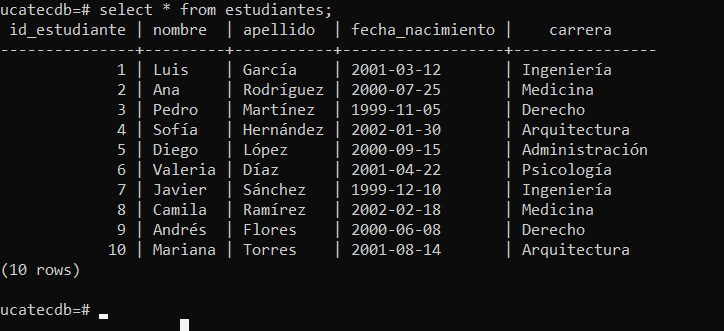
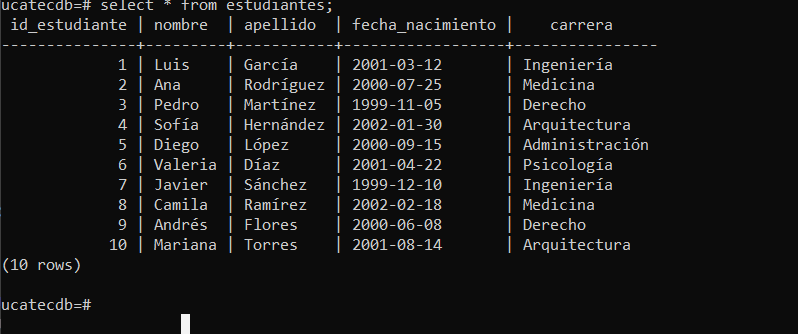
Examen

diff --git a/README.md b/README.md
@@ -1,2 +1,208 @@
-# UCatec
-Examen Primer Parcial
+# Configuración de PostgreSQL y MongoDB en Docker
+
+Este README documenta los pasos realizados para levantar contenedores de PostgreSQL y MongoDB usando Docker.
+
+---
+
+## 1. PostgreSQL
+
+### Pasos Realizados:
+
+#### ✅ Creación de un contenedor PostgreSQL
+
+Usamos el siguiente comando de Docker para crear y ejecutar el contenedor de PostgreSQL:
+
+```bash
+docker run -d \
+  --name postgres_container \
+  -e POSTGRES_USER=kevin \
+  -e POSTGRES_PASSWORD=secret \
+  -e POSTGRES_DB=ucatecdb \
+  -p 5434:5432 \
+  postgres
+```
+
+**Parámetros:**
+- `-d`: Ejecuta el contenedor en segundo plano.
+- `--name`: Asigna un nombre al contenedor (`postgres_container`).
+- `-e`: Define las variables de entorno como el usuario, la contraseña y la base de datos.
+- `-p`: Mapea el puerto 5432 del contenedor al puerto 5434 del host.
+
+#### 🔍 Verificación del contenedor PostgreSQL
+
+```bash
+docker ps
+```
+
+#### 🐚 Acceso al contenedor PostgreSQL
+
+```bash
+docker exec -it postgres_container bash
+```
+
+Luego, para acceder a la base de datos:
+
+```bash
+psql -U kevin --dbname=ucatecdb --password
+```
+
+#### 🧪 Consultas SQL dentro del contenedor
+
+```sql
+\d
+SELECT * FROM estudiantes;
+```
+### Imagenes del proceso
+![alt text](image.png)
+![alt text](image-1.png)
+![alt text](image-2.png)
+---
+
+## 2. MongoDB
+
+### Pasos Realizados:
+
+#### ✅ Creación de un contenedor MongoDB
+
+Usamos el siguiente comando de Docker para crear y ejecutar el contenedor de MongoDB:
+
+```bash
+docker run -d \
+  --name mongo_container \
+  -e MONGO_INITDB_ROOT_USERNAME=kevin \
+  -e MONGO_INITDB_ROOT_PASSWORD=secret \
+  -p 27017:27017 \
+  mongo
+```
+
+**Parámetros:**
+- `-d`: Ejecuta el contenedor en segundo plano.
+- `--name`: Asigna un nombre al contenedor (`mongo_container`).
+- `-e`: Define las variables de entorno como el usuario root y la contraseña.
+- `-p`: Mapea el puerto 27017 del contenedor al puerto 27017 del host.
+
+#### 🔍 Verificación del contenedor MongoDB
+
+```bash
+docker ps
+```
+
+#### 🐚 Acceso al contenedor MongoDB
+
+```bash
+docker exec -it mongo_container mongosh -u kevin -p secret
+```
+
+#### 📋 Consultas dentro del contenedor MongoDB
+
+```javascript
+use examenMongo
+
+db.estudiantes.insertMany([
+  { nombre: "Luis", carrera: "Ingeniería" },
+  { nombre: "Ana", carrera: "Medicina" },
+  { nombre: "Pedro", carrera: "Derecho" }
+])
+
+db.estudiantes.find()
+```
+
+---
+
+## 🛠 Herramientas Utilizadas
+
+- **Docker**: Para crear, gestionar y ejecutar contenedores.
+- **PostgreSQL**: Base de datos relacional utilizada para almacenar información estructurada.
+- **MongoDB**: Base de datos NoSQL utilizada para almacenar datos en formato JSON.
+
+### Images del proceso
+![alt text](image-3.png)
+![alt text](image-4.png)
+![alt text](image-5.png)
+
+
+
+## 3. Nginx en Docker
+
+Este proyecto muestra cómo ejecutar un contenedor de **Nginx** en Docker con el nombre `kevin1`, sirviendo una página web HTML simple.
+
+---
+
+## 📁 Estructura del Proyecto
+
+```
+nginx_kevin1/
+├── html/
+│   └── index.html
+```
+
+---
+
+## 🛠 Pasos para Ejecutar
+
+### 1. Crear el directorio del proyecto
+
+```bash
+mkdir nginx_kevin1
+cd nginx_kevin1
+mkdir html
+echo "<h1>Hola desde Nginx en Docker - Contenedor kevin1</h1>" > html/index.html
+```
+
+---
+
+###  Ejecutar el contenedor con Docker
+
+```bash
+docker run -d \
+  --name kevin1 \
+  -p 8080:80 \
+  -v $(pwd)/html:/usr/share/nginx/html:ro \
+  nginx
+```
+
+📌 **Explicación de los parámetros**:
+
+- `-d`: Ejecuta el contenedor en segundo plano.
+- `--name kevin1`: Asigna el nombre `kevin1` al contenedor.
+- `-p 8080:80`: Mapea el puerto 80 del contenedor al puerto 8080 del host.
+- `-v $(pwd)/html:/usr/share/nginx/html:ro`: Monta tu carpeta local `html` como directorio raíz del servidor Nginx.
+
+---
+
+###  Acceder al servidor Nginx
+
+Abre tu navegador y visita:
+
+```
+http://localhost:8080
+```
+
+Deberías ver el mensaje:
+
+```
+Hola desde Nginx en Docker - Contenedor kevin1
+```
+
+---
+
+###  Verifica el contenedor en ejecución
+
+```bash
+docker ps
+```
+
+---
+
+## 🧰 Herramientas Utilizadas
+
+- **Docker**: Plataforma de contenedores.
+- **Nginx**: Servidor web liviano y potente.
+
+---
+
+¡Listo! Ahora tienes tu servidor Nginx funcionando dentro de Docker bajo el nombre `kevin1` 🎉
+
+### Imagenes del proceso
+![alt text](image-6.png)
+![alt text](image-7.png)
